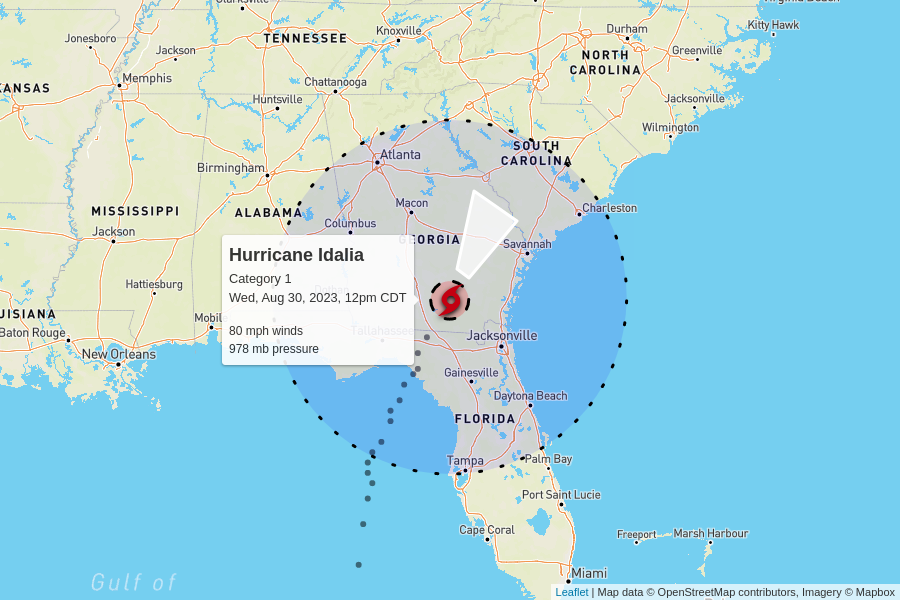
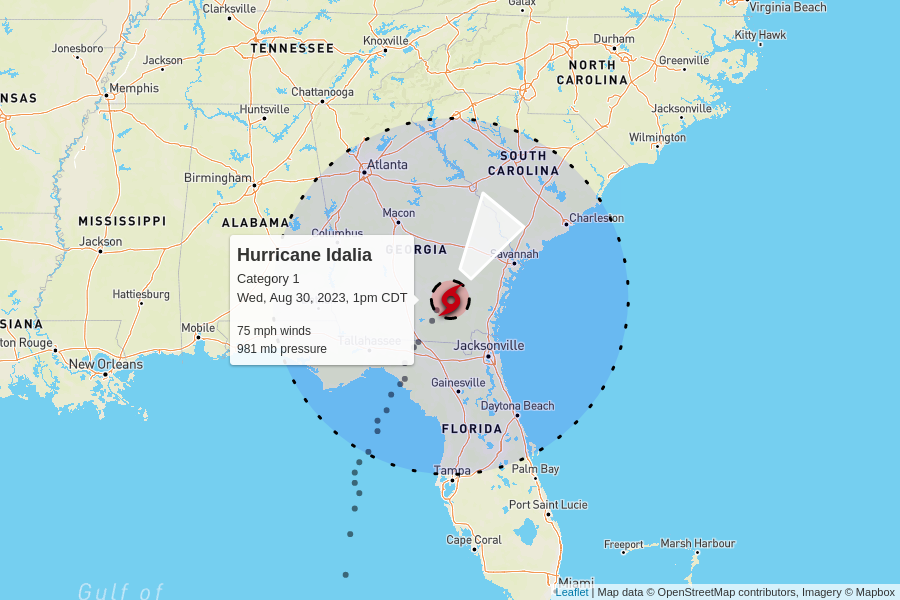
automatic update

diff --git a/docs/index.html b/docs/index.html
@@ -97,54 +97,10 @@
 
     <table>
       <tr>
-        <td colspan="6" class="storm category-1" >
-          <h2>
-            Hurricane Idalia - Category 1
-            <p class="updated">last updated <span data-time>2023-08-30T17:00:00.000Z</span></p>
-          </h2>
-        </td>
-      </tr>
-      
-      <tr>
-        <th class="spacer"></th>
-        <th>wind speed</th>
-        <th>central pressure</th>
-        <th>movement</th>
-        <th>data (CSV)</th>
-        <th>National Hurricane Center</th>
-      </tr>
-      <tr>
-        <td class="spacer"></td>
-        <td>80 mph</td>
-        <td>978 mb</td>
-        <td>
-          20 mph to the north-northeast
-          <br/>
-          <span style="display: inline-block; font-size: 1.5em; transform: rotate(30deg);">↑</span>
-        </td>
-        <td><a href="https://raw.githubusercontent.com/mgwalker/atlantic-hurricanes/main/data/csv/AL102023.csv">AL102023.csv</a></td>
-        <td><a href="https://www.nhc.noaa.gov/archive/2023/IDALIA.shtml?">NHC advisories</a></td>
-      </tr>
-      <tr id="storm_AL102023" >
-        <td class="spacer">
-        <td colspan="5">
-          <figure>
-            <img src="AL102023.png">
-            <figcaption>
-              Map data &copy; <a href="https://www.openstreetmap.org/copyright">OpenStreetMap</a> contributors,
-              Imagery &copy; <a href="https://www.mapbox.com/">Mapbox</a> |
-              <a href="https://www.mapbox.com/map-feedback/" target="_blank">Improve this map</a>
-            </figcaption>
-          </figure>
-        </td>
-      </tr>
-      
-
-      <tr>
         <td colspan="6" class="storm category-2" >
           <h2>
             Hurricane Franklin - Category 2
-            <p class="updated">last updated <span data-time>2023-08-30T15:00:00.000Z</span></p>
+            <p class="updated">last updated <span data-time>2023-08-30T18:00:00.000Z</span></p>
           </h2>
         </td>
       </tr>
@@ -174,6 +130,50 @@
         <td colspan="5">
           <figure>
             <img src="AL082023.png">
+            <figcaption>
+              Map data &copy; <a href="https://www.openstreetmap.org/copyright">OpenStreetMap</a> contributors,
+              Imagery &copy; <a href="https://www.mapbox.com/">Mapbox</a> |
+              <a href="https://www.mapbox.com/map-feedback/" target="_blank">Improve this map</a>
+            </figcaption>
+          </figure>
+        </td>
+      </tr>
+      
+
+      <tr>
+        <td colspan="6" class="storm category-1" >
+          <h2>
+            Hurricane Idalia - Category 1
+            <p class="updated">last updated <span data-time>2023-08-30T18:00:00.000Z</span></p>
+          </h2>
+        </td>
+      </tr>
+      
+      <tr>
+        <th class="spacer"></th>
+        <th>wind speed</th>
+        <th>central pressure</th>
+        <th>movement</th>
+        <th>data (CSV)</th>
+        <th>National Hurricane Center</th>
+      </tr>
+      <tr>
+        <td class="spacer"></td>
+        <td>75 mph</td>
+        <td>981 mb</td>
+        <td>
+          20 mph to the northeast
+          <br/>
+          <span style="display: inline-block; font-size: 1.5em; transform: rotate(35deg);">↑</span>
+        </td>
+        <td><a href="https://raw.githubusercontent.com/mgwalker/atlantic-hurricanes/main/data/csv/AL102023.csv">AL102023.csv</a></td>
+        <td><a href="https://www.nhc.noaa.gov/archive/2023/IDALIA.shtml?">NHC advisories</a></td>
+      </tr>
+      <tr id="storm_AL102023" >
+        <td class="spacer">
+        <td colspan="5">
+          <figure>
+            <img src="AL102023.png">
             <figcaption>
               Map data &copy; <a href="https://www.openstreetmap.org/copyright">OpenStreetMap</a> contributors,
               Imagery &copy; <a href="https://www.mapbox.com/">Mapbox</a> |
